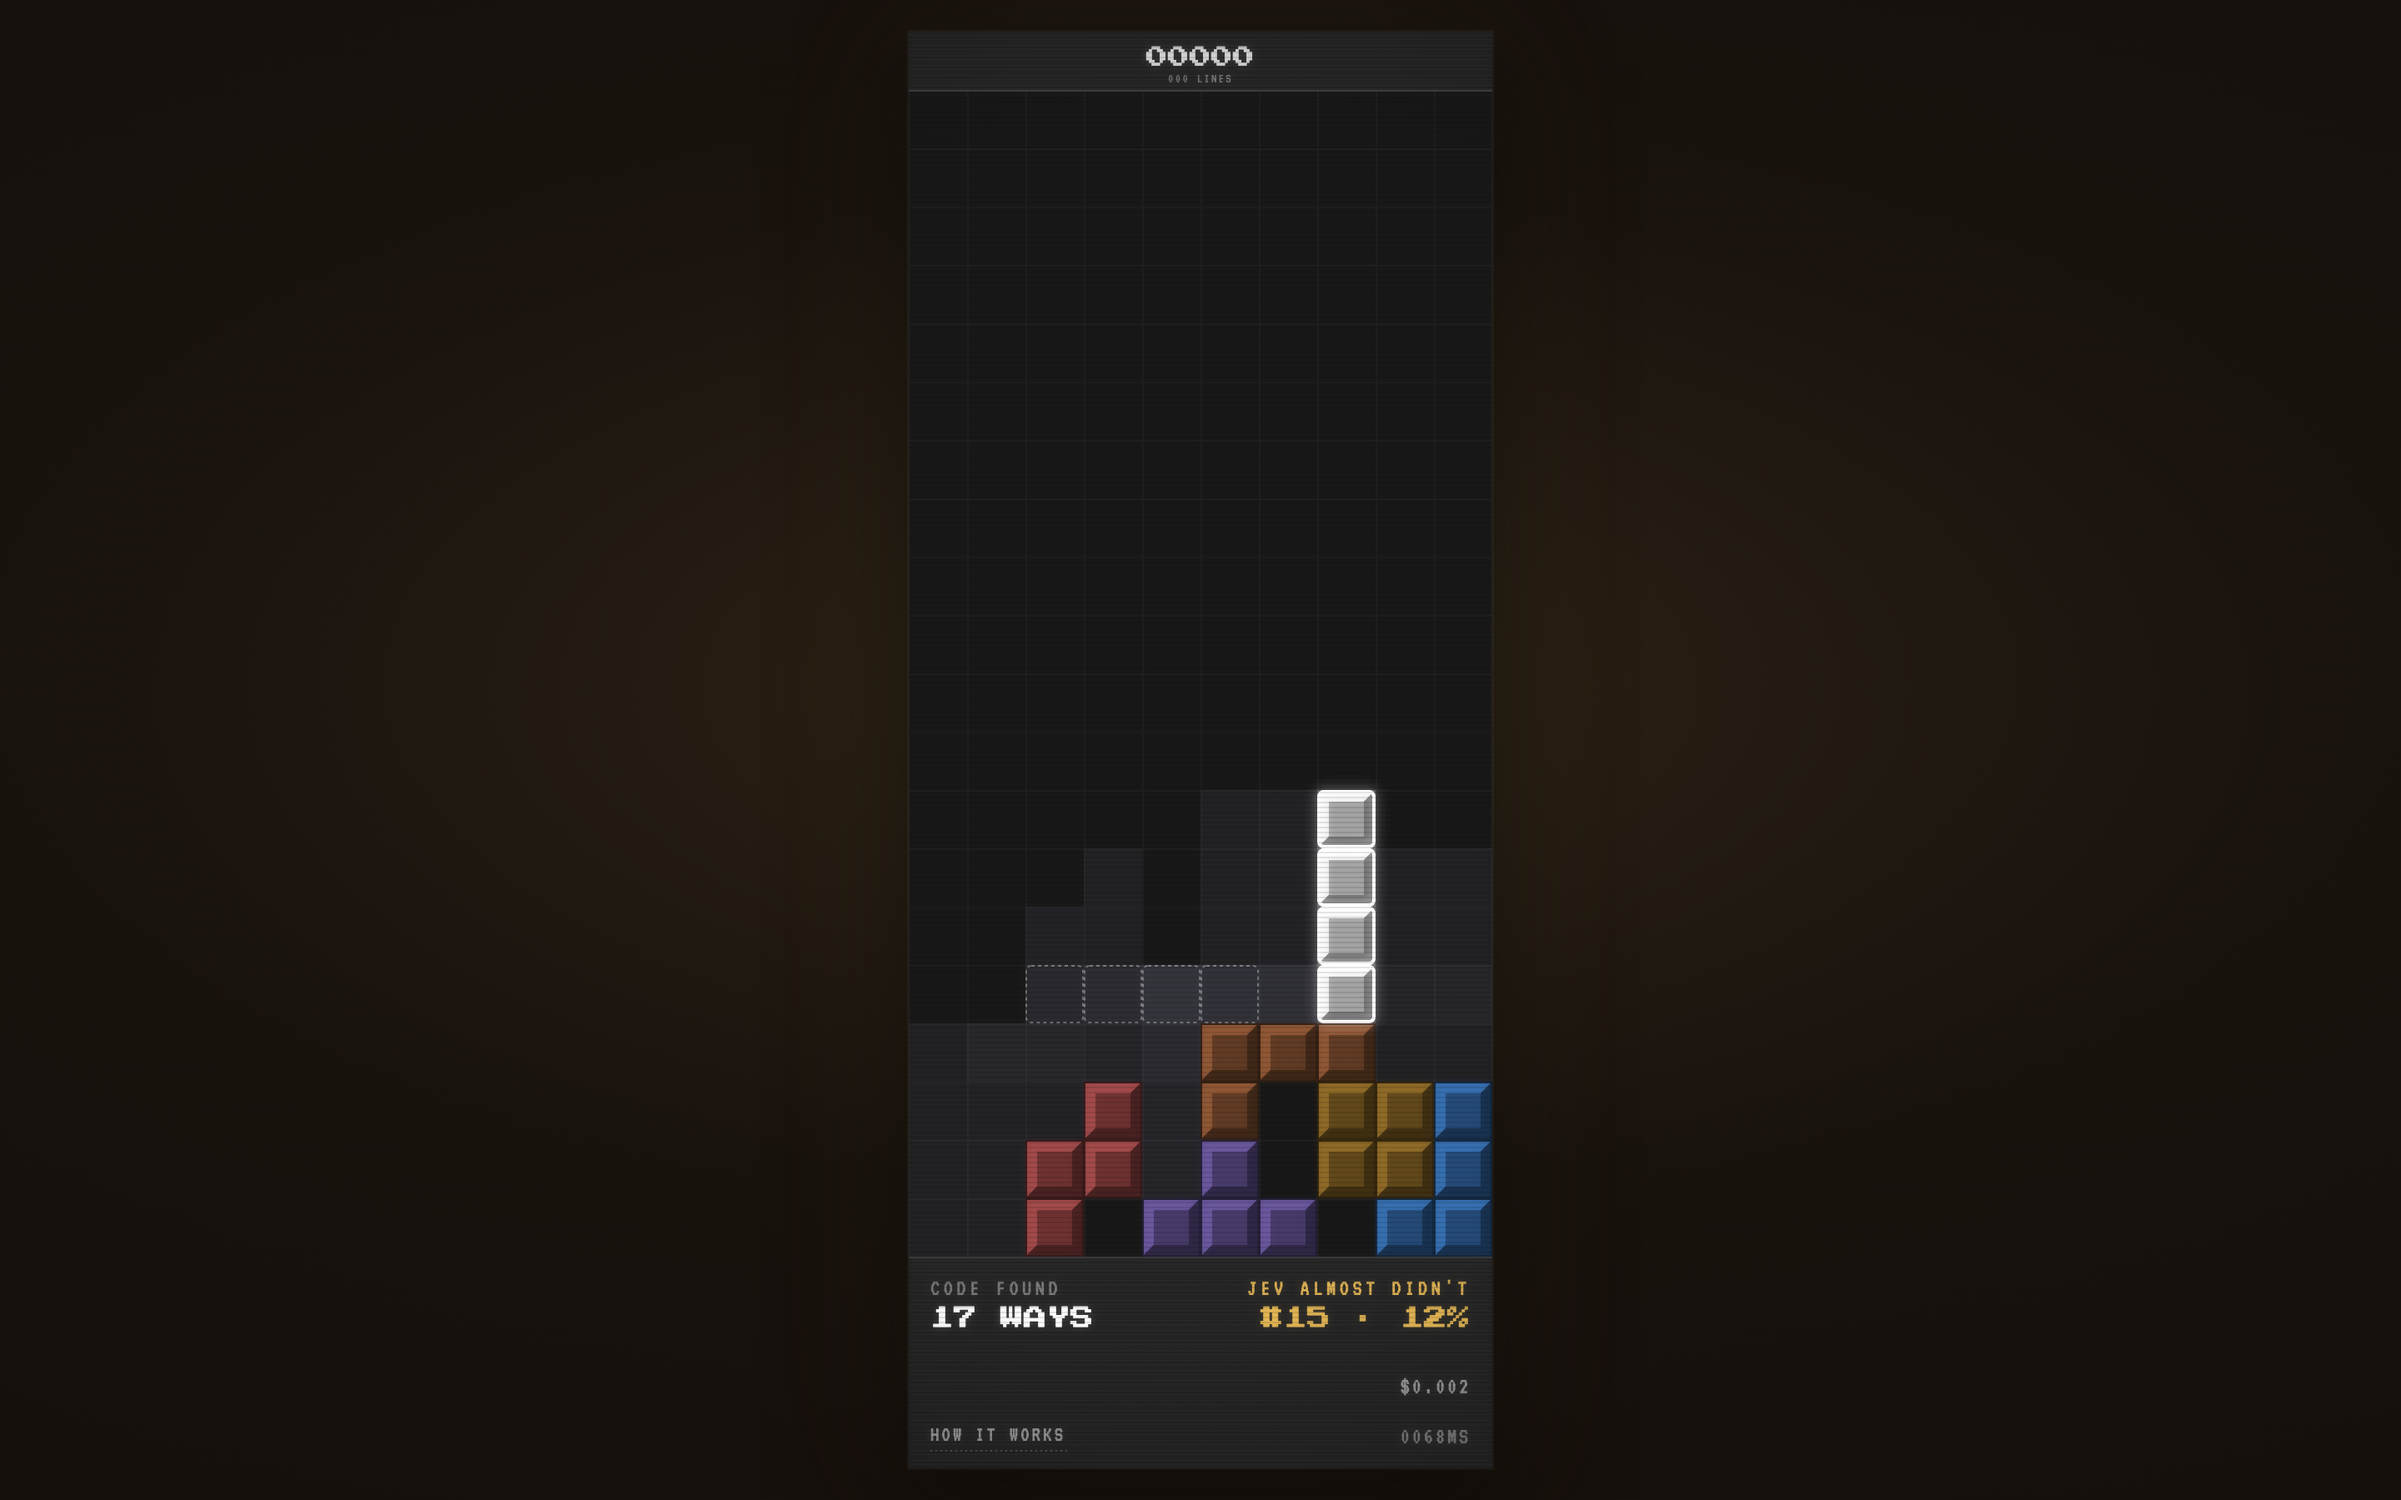
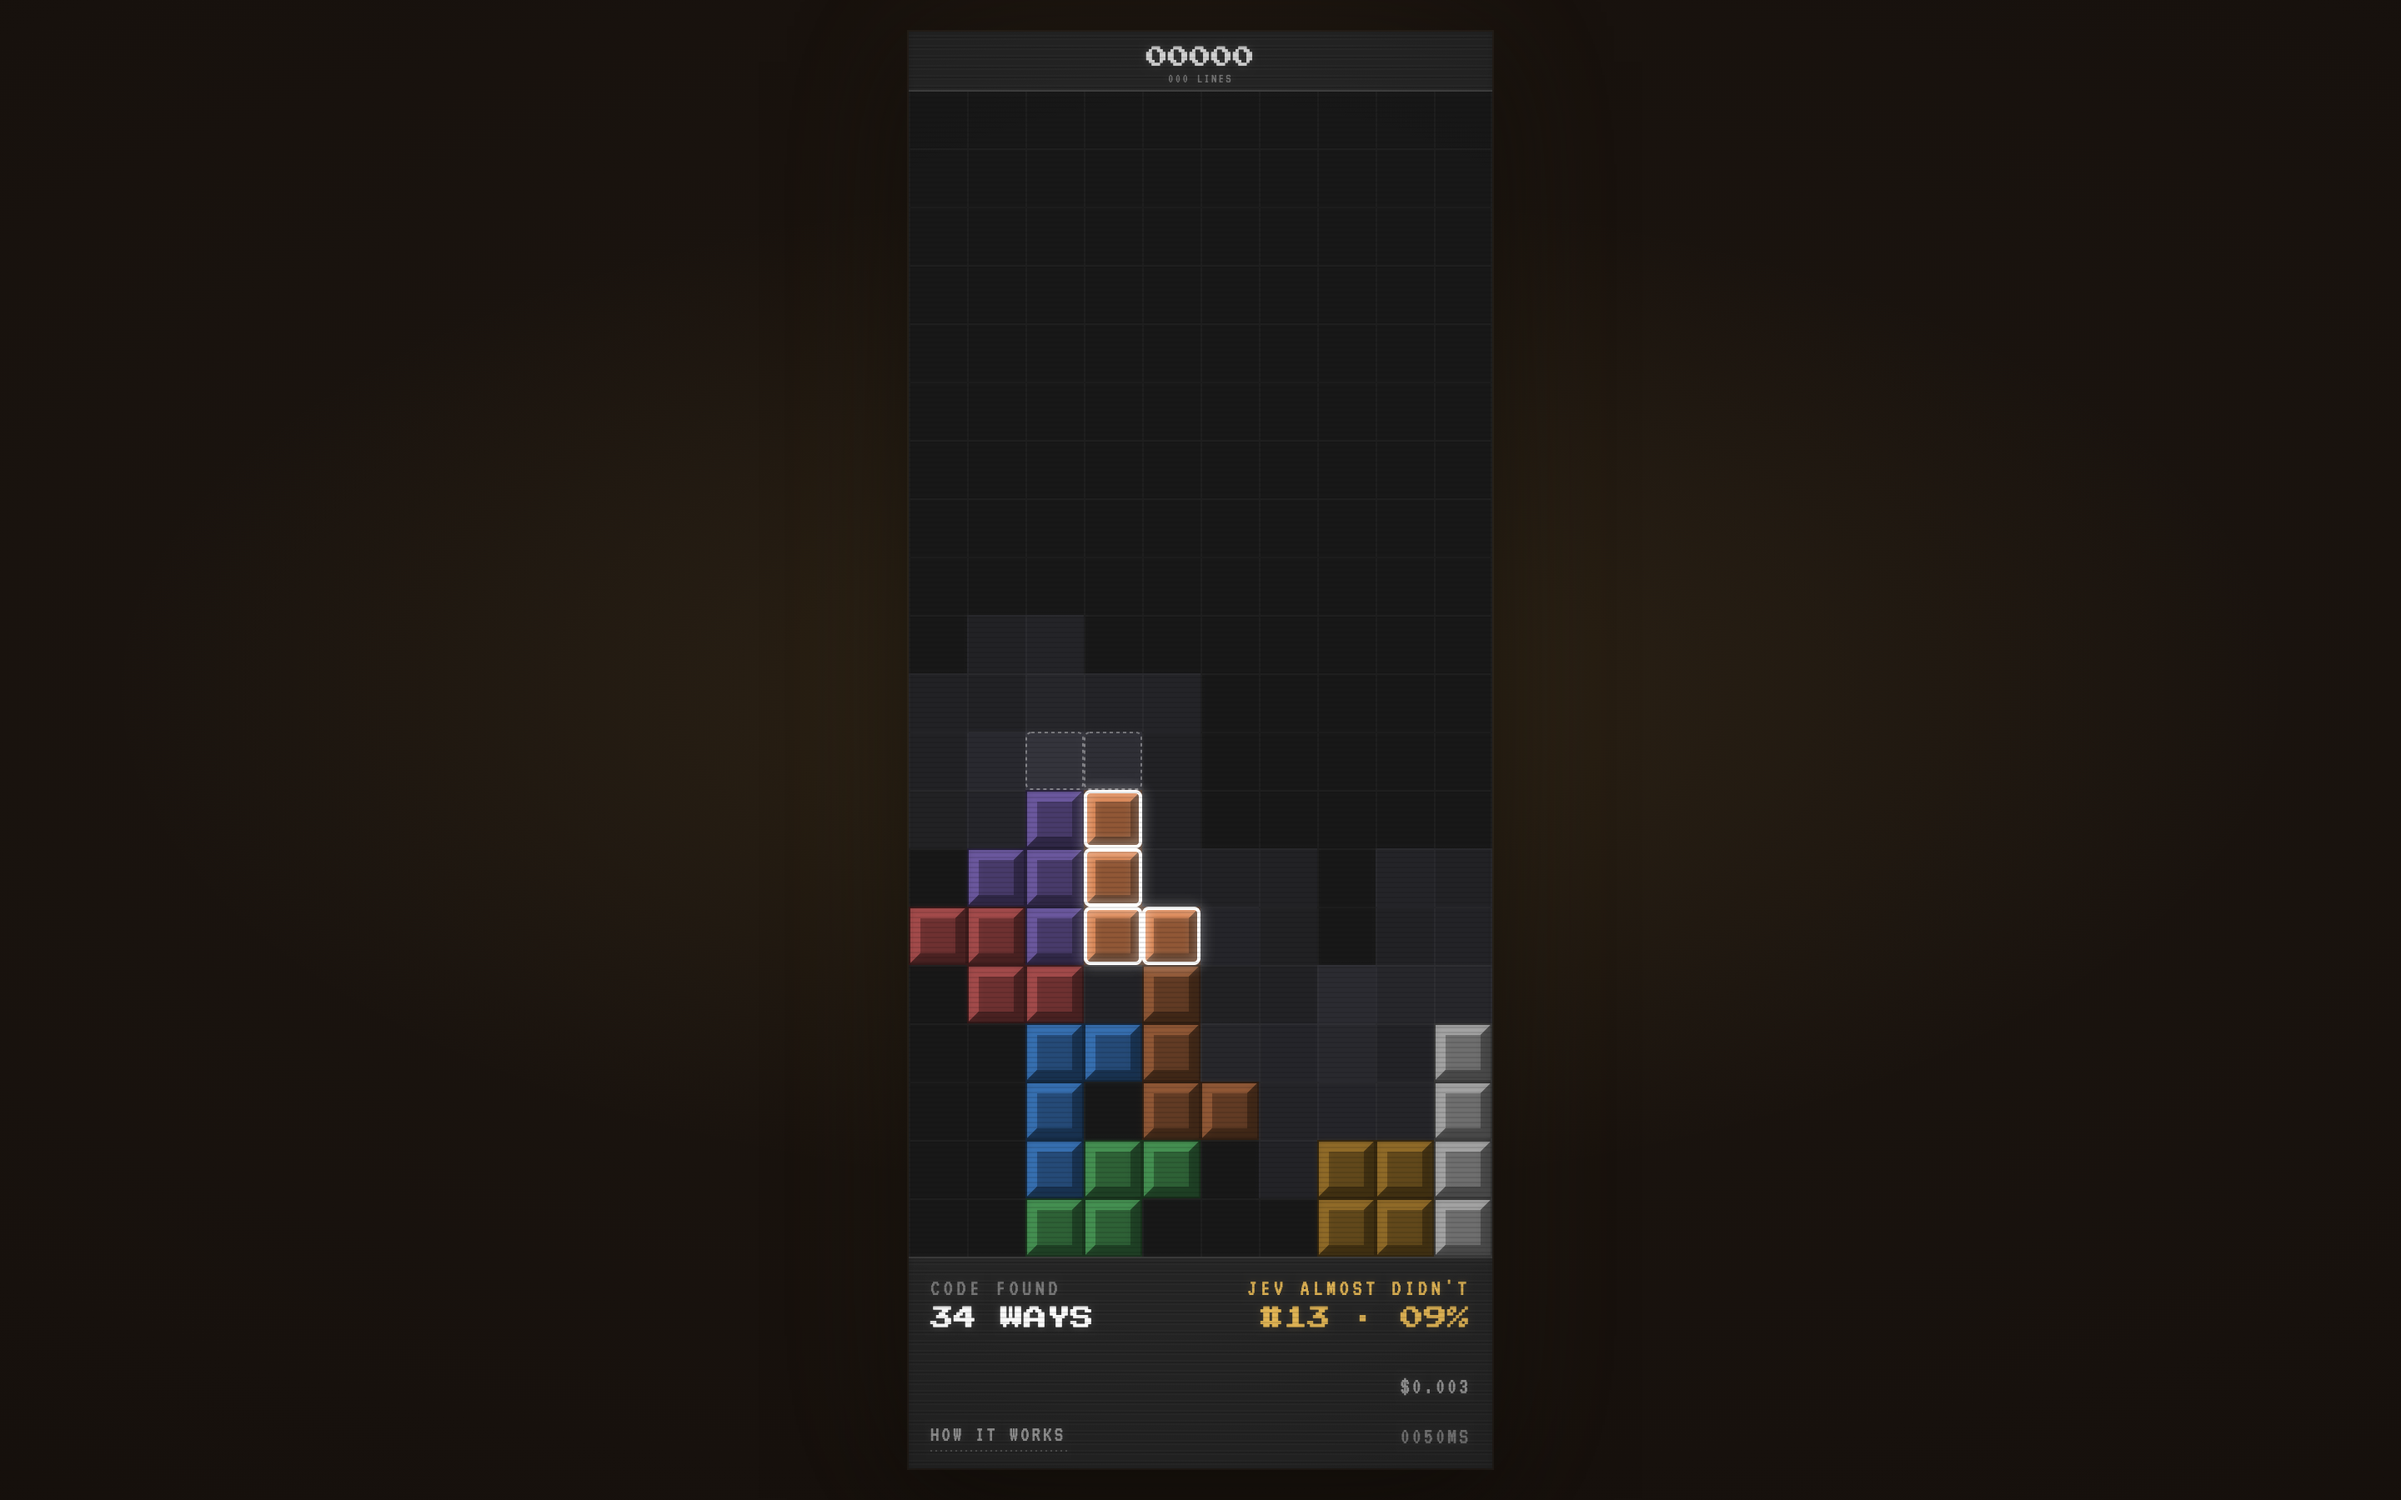
Show the round's cost on the strip, not the server's lifetime
The counter lives on the server and only ever increments, so a new round
opened still holding the previous one's bill and nothing but restarting the
server ever cleared it. The arithmetic was right; the figure was answering a
question nobody asked.

The strip now shows what the current round has cost. The session total moved
to the foot of the panel, next to the model id and the call count, where the
rest of the provenance already lives.

Claude-Session: https://claude.ai/code/session_01QMwKw4FudxURZnTiNJrjDR

Changed region(s): [[0.375, 0.4667, 0.625, 0.84], [0.375, 0.8711, 0.4062, 0.9022]]

diff --git a/public/main.js b/public/main.js
@@ -110,6 +110,10 @@ let lastMs = 0, lastConf = 0, thinkingSince = 0, dropFrom = 0
 let gateRow = 1
 let optionCount = 0, chosenId = null, chosenShare = 0, nearMiss = false, nearMissAt = 0
 let meta = null, netError = null, budgetStop = null
+// The server counts for its whole life, which is the right number to keep but
+// the wrong one to show: a new round would open holding the last one's bill.
+// The strip shows this round; the panel shows the session.
+let roundCostBase = 0
 let started = false, ready = null, hidden = document.hidden
 let showPanel = false
 let hitboxes = []
@@ -289,6 +293,7 @@ async function step() {
 }
 
 function start() {
+  roundCostBase = meta?.usd ?? 0
   started = true
   audioBegin()
   reset()
@@ -620,7 +625,7 @@ function drawStrip(t) {
   const blinkOn = !s.blink || Math.floor(t / 550) % 2 === 0
   put(s.hr, R, hy, blinkOn ? s.hrInk : C.ink0, 'right')
 
-  const costText = `$${(meta?.usd ?? 0).toFixed(3)}`
+  const costText = `$${Math.max(0, (meta?.usd ?? 0) - roundCostBase).toFixed(3)}`
   if (!minimal() && !tight()) {
     type(VT, 0.54 * sv, 400, 0.1)
     put(costText, R, y0 + 2.73 * sv, C.ink2, 'right')
@@ -669,7 +674,7 @@ const PANEL = [
   ['#N · N%', "which way it took, numbered left to right, and that way's share of the field. 80% knew; 20% is a coin toss between look-alikes."],
   ['DIM BLOCKS', 'how sure it was when it placed them. The wall is a record of its doubt.'],
   ['MS', 'how long the model took. The piece falls a row at a time while it reads, then drops the rest of the way the moment the answer lands. This is the tempo.'],
-  ['$', 'what the session has cost so far, in real money.'],
+  ['$', 'what this round has cost, in real money. The total for the whole session is at the foot of this panel.'],
 ]
 
 function wrap(text, maxW) {
@@ -727,7 +732,8 @@ function drawPanel() {
   ctx.fillStyle = '#2f2f2f'
   ctx.fillRect(p, footRule, G.W - 2 * p, 1)
   type(VT, sz(13), 400, 0.08)
-  put(`${(meta?.model ?? 'JEV').toUpperCase()} · WEIGHTS OURS, PROBABILITIES ITS`, p, footRule + Math.round(14 * k), C.ink1)
+  const session = meta ? `${meta.calls} CALLS · $${meta.usd.toFixed(3)} THIS SESSION · ` : ''
+  put(`${(meta?.model ?? 'JEV').toUpperCase()} · ${session}WEIGHTS OURS, PROBABILITIES ITS`, p, footRule + Math.round(14 * k), C.ink1)
 }
 
 // ── CRT ──────────────────────────────────────────────────────────────────────
